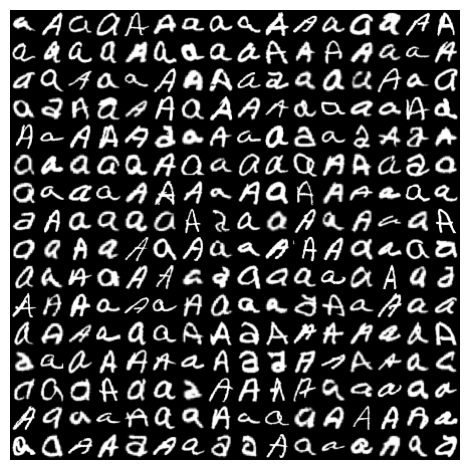
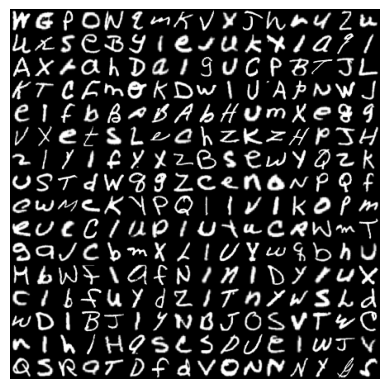
Update example image for EMNIST-Letters in README

diff --git a/README.md b/README.md
@@ -55,7 +55,7 @@ import matplotlib.pyplot as plt
 emnist = EMNIST()
 letters = emnist.Letters()
 plt.imshow(
-    letters.test_images()[:256]
+    letters.train_images()[:256]
         .reshape(16, 16, 28, 28)
         .swapaxes(1, 2)
         .reshape(16 * 28, -1),
